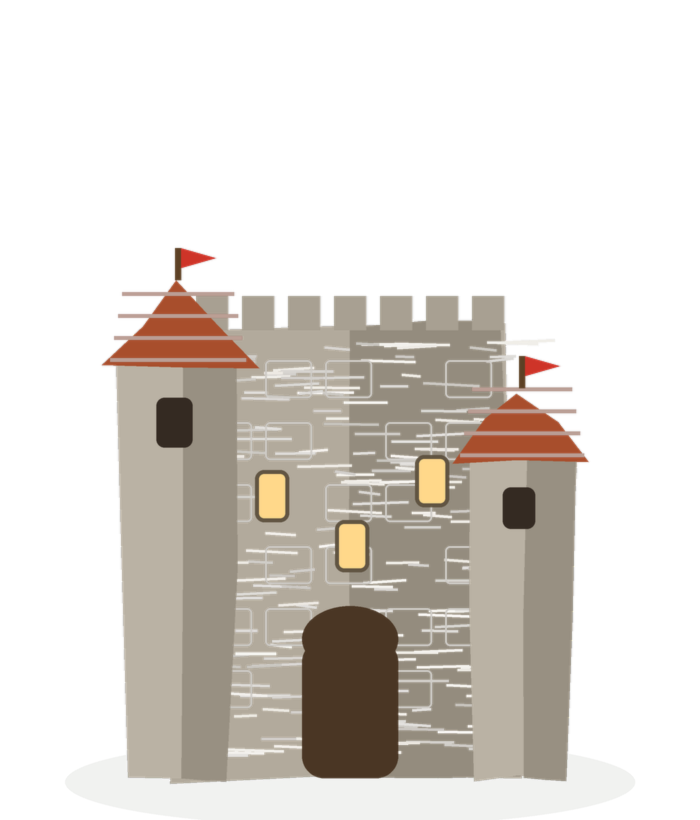
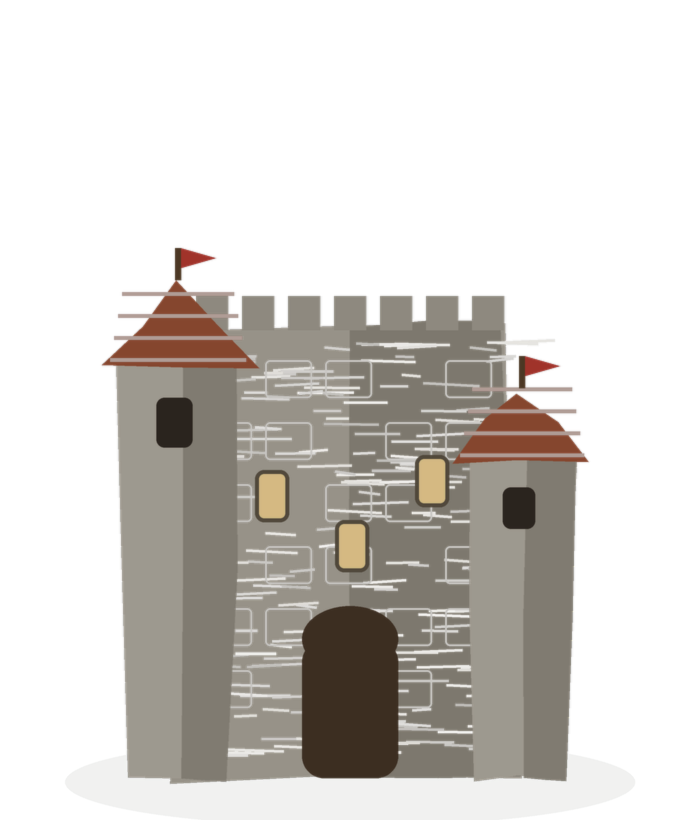
Painted 2.5D prototype P2: hero house (dense brush/value modelling), painted mountain backdrop, palette calibrated down in textures - gate FAIL 5/10 (artwork density/composition, pipeline proven)

Changed region(s): [[0.15, 0.3049, 0.72, 0.9756], [0.6, 0.4573, 0.84, 0.9756], [0.75, 0.4268, 0.81, 0.4573]]

diff --git a/art_test/painted25d/paint_assets.py b/art_test/painted25d/paint_assets.py
@@ -1,7 +1,7 @@
 """Paint prototype assets for the 2.5D test. Supersampled x3, soft edges.
 Run: python3 art_test/painted25d/paint_assets.py  (writes assets/*.png)"""
 import math, random
-from PIL import Image, ImageDraw, ImageFilter
+from PIL import Image, ImageDraw, ImageFilter, ImageEnhance
 random.seed(25)
 OUT = "art_test/painted25d/assets/"
 SS = 3
@@ -9,8 +9,10 @@ SS = 3
 def canvas(w, h):
     return Image.new("RGBA", (w*SS, h*SS), (0, 0, 0, 0))
 
-def finish(img, w, h, name):
+def finish(img, w, h, name, bright=1.0, sat=1.0):
     img = img.resize((w, h), Image.LANCZOS)
+    if bright != 1.0: img = ImageEnhance.Brightness(img).enhance(bright)
+    if sat != 1.0: img = ImageEnhance.Color(img).enhance(sat)
     img = img.filter(ImageFilter.GaussianBlur(0.5))
     img.save(OUT + name)
     print("painted", name, img.size)
@@ -36,48 +38,95 @@ def strokes(d, box, n, cols, lw, horiz=True, seed=1):
         if horiz: d.line([(x*SS, y*SS), ((x+L)*SS, (y+rnd.uniform(-3, 3))*SS)], fill=c, width=int(lw*SS))
         else: d.line([(x*SS, y*SS), ((x+rnd.uniform(-3, 3))*SS, (y+L)*SS)], fill=c, width=int(lw*SS))
 
-# ---------------- HOUSE (600x560, ground contact y~520) ----------------
+# ---------------- HERO HOUSE P2 (600x560, contact y~520): dense brush + value modelling ----------------
 img = canvas(600, 560); d = ImageDraw.Draw(img, 'RGBA')
-shadow(d, 300, 522, 190, 26)
-# walls: leaning plaster body + stone skirt
-d.polygon(wob([(150,300),(455,290),(470,505),(135,510)], 5, 1), fill=(234, 216, 176, 255))
-d.polygon(wob([(135,455),(470,450),(472,512),(133,514)], 4, 2), fill=(168, 160, 146, 255))
-for i in range(9):  # skirt stones
-    x = 150 + i*36
-    d.rounded_rectangle([(x*SS, 462*SS), ((x+30)*SS, 505*SS)], 6*SS, fill=(150, 142, 128, 255), outline=(110, 102, 90, 160), width=2*SS)
-strokes(d, (160, 310, 450, 440), 90, [(255, 248, 224), (206, 182, 142)], 3)
-# timber frame
-for x in [158, 300, 442]:
-    d.line([(x*SS, 296*SS), ((x-6)*SS, 506*SS)], fill=(88, 60, 34, 255), width=13*SS)
-d.line([(150*SS, 302*SS), (462*SS, 294*SS)], fill=(88, 60, 34, 255), width=12*SS)
-d.line([(158*SS, 410*SS), (458*SS, 404*SS)], fill=(88, 60, 34, 255), width=9*SS)
-d.line([(168*SS, 310*SS), (290*SS, 402*SS)], fill=(88, 60, 34, 255), width=8*SS)
-# roof: sagging steep slopes (solid, strokes clipped to roof mask)
-d.polygon(wob([(105,305),(300,118),(505,300),(505,318),(105,322)], 5, 3), fill=(172, 84, 48, 255))
-d.polygon(wob([(300,118),(505,300),(505,318),(300,238)], 4, 4), fill=(146, 68, 40, 255))
-mask = Image.new("L", img.size, 0); md = ImageDraw.Draw(mask)
-md.polygon(wob([(105,305),(300,118),(505,300),(505,318),(105,322)], 5, 3), fill=255)
-sl = Image.new("RGBA", img.size, (0,0,0,0)); sd = ImageDraw.Draw(sl)
-strokes(sd, (110, 125, 490, 310), 170, [(232, 148, 96), (128, 62, 36), (240, 178, 120)], 3)
-for r in range(7):
-    y = 292 - r*24; inset = r*20
-    sd.line([((118+inset)*SS, y*SS), (300*SS, (y-40)*SS), ((492-inset)*SS, y*SS)], fill=(110, 52, 30, 130), width=5*SS)
-img.paste(Image.alpha_composite(img, sl), (0, 0), mask); d = ImageDraw.Draw(img, 'RGBA')
-d.line([(112*SS, 308*SS), (300*SS, 126*SS), (498*SS, 302*SS)], fill=(236, 168, 112, 200), width=7*SS)
-d.rectangle([105*SS, 302*SS, 505*SS, 316*SS], fill=(70, 40, 24, 90))
-# chimney + smoke
-d.polygon(wob([(392,92),(432,88),(436,168),(396,172)], 3, 5), fill=(158, 150, 136, 255))
-d.rectangle([388*SS, 82*SS, 440*SS, 96*SS], fill=(120, 112, 98, 255))
-for i, (sx, sy, sr) in enumerate([(420, 62, 17), (438, 40, 23), (462, 14, 29)]):
-    d.ellipse([(sx-sr)*SS, (sy-sr)*SS, (sx+sr)*SS, (sy+sr)*SS], fill=(240, 240, 238, 58))
-# door + windows
-d.rounded_rectangle([272*SS, 408*SS, 330*SS, 508*SS], 14*SS, fill=(104, 70, 40, 255))
-d.ellipse([272*SS, 388*SS, 330*SS, 432*SS], fill=(104, 70, 40, 255))
+shadow(d, 300, 522, 195, 26)
+wallp = wob([(150,300),(455,290),(470,505),(135,510)], 5, 1)
+roofp = wob([(100,308),(298,106),(510,298),(510,318),(100,324)], 5, 3)
+wmask = Image.new("L", img.size, 0); ImageDraw.Draw(wmask).polygon(wallp, fill=255)
+rmask = Image.new("L", img.size, 0); ImageDraw.Draw(rmask).polygon(roofp, fill=255)
+# walls: plaster base + lit left / shadow right value modelling
+d.polygon(wallp, fill=(206, 186, 148, 255))
+lay = Image.new("RGBA", img.size, (0,0,0,0)); ld = ImageDraw.Draw(lay)
+ld.polygon(wob([(150,300),(300,296),(305,508),(135,510)], 4, 31), fill=(255, 240, 205, 66))   # lit side
+ld.polygon(wob([(368,294),(455,290),(470,505),(372,506)], 4, 32), fill=(104, 94, 82, 92))     # shadow side
+ld.rectangle([130*SS, 292*SS, 475*SS, 322*SS], fill=(80, 58, 40, 88))                        # under-eave AO
+ld.rectangle([130*SS, 470*SS, 475*SS, 512*SS], fill=(86, 66, 46, 70))                        # ground AO
+img.paste(Image.alpha_composite(img, lay), (0, 0), wmask); d = ImageDraw.Draw(img, 'RGBA')
+lay = Image.new("RGBA", img.size, (0,0,0,0)); ld = ImageDraw.Draw(lay)
+strokes(ld, (145, 305, 465, 500), 300, [(238, 222, 182), (188, 164, 122), (168, 150, 118), (226, 204, 158)], 3, seed=41)
+for cx, cy in [(210, 360), (390, 330), (250, 450)]:  # plaster patches + cracks
+    ld.ellipse([(cx-46)*SS, (cy-20)*SS, (cx+46)*SS, (cy+20)*SS], fill=(196, 172, 128, 60))
+    ld.line([(cx*SS, cy*SS), ((cx+16)*SS, (cy+34)*SS), ((cx+8)*SS, (cy+58)*SS)], fill=(110, 92, 70, 110), width=2*SS)
+img.paste(Image.alpha_composite(img, lay), (0, 0), wmask); d = ImageDraw.Draw(img, 'RGBA')
+# stone foundation: individual shaded stones, 2 offset rows
+rndf = random.Random(7)
+for row, fy in enumerate([458, 484]):
+    for i in range(9):
+        x = 142 + i*37 + (18 if row else 0); wdt = rndf.randint(28, 36)
+        c = rndf.choice([(148, 138, 122), (132, 122, 106), (160, 148, 130), (120, 112, 98)])
+        d.rounded_rectangle([(x*SS, fy*SS), ((x+wdt)*SS, (fy+24)*SS)], 7*SS, fill=c+(255,), outline=(88, 80, 68, 170), width=2*SS)
+        d.line([((x+4)*SS, (fy+5)*SS), ((x+wdt-6)*SS, (fy+5)*SS)], fill=(214, 204, 184, 130), width=2*SS)
+# timber frame with grain
+for x0b, y0b, x1b, y1b, wd in [(158,296,152,506,13),(300,294,300,506,13),(442,292,450,504,13),(150,302,462,294,12),(158,410,458,404,9),(168,310,290,402,8)]:
+    d.line([(x0b*SS, y0b*SS), (x1b*SS, y1b*SS)], fill=(84, 58, 32, 255), width=wd*SS)
+    d.line([((x0b+2)*SS, y0b*SS), ((x1b+2)*SS, y1b*SS)], fill=(140, 104, 62, 130), width=2*SS)
+# roof: muted terracotta base, shadow slope, dense shingles (rows + scallops + strokes), ridge
+d.polygon(roofp, fill=(148, 78, 46, 255))
+lay = Image.new("RGBA", img.size, (0,0,0,0)); ld = ImageDraw.Draw(lay)
+ld.polygon(wob([(298,106),(510,298),(510,318),(298,240)], 4, 33), fill=(70, 36, 26, 96))  # shadow slope
+ld.polygon(wob([(100,308),(298,106),(298,240),(100,324)], 4, 34), fill=(255, 186, 130, 46)) # lit slope
+strokes(ld, (105, 112, 505, 315), 420, [(196, 118, 74), (122, 60, 36), (214, 146, 96), (104, 52, 32)], 3, seed=55)
+rndr = random.Random(9)
+for r in range(9):
+    tt = r/8.0; y = 302 - tt*172; hw = 200 - tt*182; cx = 302 - tt*3
+    ld.line([((cx-hw)*SS, y*SS), ((cx+hw)*SS, y*SS)], fill=(92, 46, 28, 150), width=4*SS)
+    x = cx-hw
+    while x < cx+hw-14:
+        c = rndr.choice([(176, 102, 62), (156, 84, 50), (190, 116, 72), (138, 72, 44)])
+        ld.arc([(x*SS, (y-7)*SS), ((x+24)*SS, (y+11)*SS)], 0, 180, fill=c+(210,), width=4*SS)
+        x += 24
+for i in range(9):  # ridge tiles
+    x = 268 + i*8
+    ld.rounded_rectangle([(x*SS, (104 - abs(i-4))*SS), ((x+9)*SS, (118 - abs(i-4))*SS)], 3*SS, fill=(186, 110, 68, 255), outline=(100, 52, 30, 160), width=1*SS)
+img.paste(Image.alpha_composite(img, lay), (0, 0), rmask); d = ImageDraw.Draw(img, 'RGBA')
+d.line([(104*SS, 310*SS), (298*SS, 112*SS), (506*SS, 300*SS)], fill=(228, 158, 104, 170), width=5*SS)
+d.rectangle([100*SS, 302*SS, 510*SS, 318*SS], fill=(64, 38, 22, 110))
+d.line([(148*SS, 302*SS), (136*SS, 508*SS)], fill=(70, 48, 28, 130), width=3*SS)  # painterly edge
+d.line([(456*SS, 294*SS), (468*SS, 504*SS)], fill=(70, 48, 28, 130), width=3*SS)
+# chimney: shaded stone + soft smoke
+d.polygon(wob([(392,92),(432,88),(436,168),(396,172)], 3, 5), fill=(146, 136, 120, 255))
+d.polygon(wob([(414,90),(432,88),(436,168),(416,170)], 3, 35), fill=(110, 102, 90, 255))
+strokes(d, (394, 98, 430, 162), 30, [(196, 186, 168), (96, 88, 76)], 2, seed=61)
+d.rectangle([388*SS, 82*SS, 440*SS, 96*SS], fill=(104, 96, 84, 255))
+for sx, sy, sr, aa in [(420, 62, 15, 30), (436, 42, 19, 24), (458, 18, 24, 18)]:
+    d.ellipse([(sx-sr)*SS, (sy-sr)*SS, (sx+sr)*SS, (sy+sr)*SS], fill=(238, 238, 234, aa))
+# door: arched, planked, stone surround; windows: warm glow, shutters, flower boxes
+d.rounded_rectangle([268*SS, 404*SS, 334*SS, 510*SS], 15*SS, outline=(150, 140, 124, 255), width=6*SS)
+d.rounded_rectangle([272*SS, 408*SS, 330*SS, 508*SS], 14*SS, fill=(96, 64, 36, 255))
+d.ellipse([272*SS, 388*SS, 330*SS, 432*SS], fill=(96, 64, 36, 255))
+for px in [286, 300, 314]: d.line([(px*SS, 402*SS), (px*SS, 504*SS)], fill=(58, 38, 20, 160), width=2*SS)
+d.ellipse([318*SS, 458*SS, 326*SS, 466*SS], fill=(216, 178, 92, 255))
 for wx in [185, 372]:
-    d.rounded_rectangle([(wx*SS, 348*SS), ((wx+52)*SS, 402*SS)], 5*SS, fill=(255, 214, 130, 255), outline=(88, 60, 34, 255), width=5*SS)
-    d.rectangle([(wx+8)*SS, 398*SS, (wx+44)*SS, 410*SS], fill=(122, 84, 44, 255))
-    for fx in range(3):
-        d.ellipse([((wx+8+fx*14)*SS, 390*SS), ((wx+18+fx*14)*SS, 402*SS)], fill=(224, 84, 62, 255))
+    d.rectangle([(wx-14)*SS, 344*SS, (wx-3)*SS, 406*SS], fill=(96, 104, 66, 255))   # shutters
+    d.rectangle([((wx+55)*SS), 344*SS, ((wx+66)*SS, 406*SS)], fill=(84, 92, 58, 255))
+    d.rounded_rectangle([(wx*SS, 348*SS), ((wx+52)*SS, 402*SS)], 5*SS, fill=(240, 196, 112, 255), outline=(80, 54, 30, 255), width=5*SS)
+    d.rectangle([((wx+24)*SS), 348*SS, ((wx+28)*SS, 402*SS)], fill=(80, 54, 30, 255))
+    d.rectangle([(wx*SS), 372*SS, ((wx+52)*SS, 376*SS)], fill=(80, 54, 30, 255))
+    d.rectangle([((wx+6)*SS), 398*SS, ((wx+46)*SS, 412*SS)], fill=(110, 76, 40, 255))
+    rndw = random.Random(wx)
+    for i in range(12):
+        gx, gy2 = wx+8+rndw.uniform(0, 36), 394+rndw.uniform(0, 8)
+        d.ellipse([(gx*SS, gy2*SS), ((gx+7)*SS, (gy2+6)*SS)], fill=(86, 116, 54, 255))
+        if i % 3 == 0: d.ellipse([((gx+2)*SS, (gy2-4)*SS), ((gx+7)*SS, (gy2+1)*SS)], fill=(196, 74, 54, 255))
+# base grass tufts + vine on lit wall
+rndg = random.Random(3)
+for i in range(46):
+    gx = rndg.uniform(140, 465); gl = rndg.uniform(8, 20)
+    d.line([(gx*SS, 512*SS), ((gx+rndg.uniform(-3, 3))*SS, (512-gl)*SS)], fill=rndg.choice([(86, 122, 54), (64, 104, 44), (110, 142, 66)])+(200,), width=2*SS)
+for i in range(26):
+    vx, vy = 168 + i*3.2, 470 - i*6.4
+    d.ellipse([((vx+rndg.uniform(-7, 7))*SS, (vy+rndg.uniform(-5, 5))*SS), ((vx+9)*SS, (vy+7)*SS)], fill=(92, 124, 58, 190))
 finish(img, 600, 560, "house.png")
 
 # ---------------- CASTLE SECTION (700x820, contact y~780) ----------------
@@ -107,7 +156,7 @@ d.rounded_rectangle([302*SS, 640*SS, 398*SS, 778*SS], 22*SS, fill=(74, 54, 36, 2
 d.ellipse([302*SS, 606*SS, 398*SS, 672*SS], fill=(74, 54, 36, 255))
 for wx, wy in [(255, 470), (415, 455), (335, 520)]:
     d.rounded_rectangle([(wx*SS, wy*SS), ((wx+34)*SS, (wy+52)*SS)], 9*SS, fill=(255, 216, 138, 255), outline=(96, 84, 66, 255), width=4*SS)
-finish(img, 700, 820, "castle.png")
+finish(img, 700, 820, "castle.png", bright=0.86, sat=0.82)
 
 # ---------------- PINE (360x680, contact y~650) ----------------
 img = canvas(360, 680); d = ImageDraw.Draw(img, 'RGBA')
@@ -128,7 +177,7 @@ for ti, (ty, halfw) in enumerate(tiers):
 sl2 = Image.new("RGBA", img.size, (0,0,0,0)); sd2 = ImageDraw.Draw(sl2)
 strokes(sd2, (15, 40, 345, 560), 260, [(150, 205, 100), (96, 158, 64), (190, 225, 140)], 3, seed=77)
 img.paste(Image.alpha_composite(img, sl2), (0, 0), pmask); d = ImageDraw.Draw(img, 'RGBA')
-finish(img, 360, 680, "pine.png")
+finish(img, 360, 680, "pine.png", bright=0.82, sat=0.80)
 
 # ---------------- BOULDER (360x260) ----------------
 img = canvas(360, 260); d = ImageDraw.Draw(img, 'RGBA')
@@ -136,7 +185,51 @@ shadow(d, 180, 232, 140, 18)
 d.polygon(wob([(60,210),(80,90),(170,38),(285,70),(315,205),(200,228),(95,226)], 7, 41), fill=(146, 134, 116, 255))
 d.polygon(wob([(170,38),(285,70),(315,205),(205,226),(185,120)], 6, 42), fill=(116, 104, 90, 255))
 strokes(d, (75, 60, 300, 210), 70, [(196, 184, 162), (96, 86, 72)], 3)
-finish(img, 360, 260, "boulder.png")
+finish(img, 360, 260, "boulder.png", bright=0.88, sat=0.85)
+
+# ---------------- MOUNTAIN BACKDROP (1500x950, contact y~920): layered painted landform ----------------
+img = canvas(1500, 950); d = ImageDraw.Draw(img, 'RGBA')
+shadow(d, 750, 922, 640, 26)
+sil = wob([(70,920),(210,640),(350,390),(505,190),(640,330),(800,110),(965,300),(1110,190),(1265,430),(1405,620),(1460,920)], 14, 71)
+mmask = Image.new("L", img.size, 0); ImageDraw.Draw(mmask).polygon(sil, fill=255)
+d.polygon(sil, fill=(134, 120, 104, 255))  # muted warm rock base
+lay = Image.new("RGBA", img.size, (0,0,0,0)); ld = ImageDraw.Draw(lay)
+# facet value modelling: lit planes left / shadow gullies right of each peak
+for poly, c in [([(505,190),(640,330),(560,560),(430,420)], (188, 172, 148, 120)),
+                ([(800,110),(965,300),(880,600),(730,420)], (196, 182, 158, 110)),
+                ([(1110,190),(1265,430),(1150,640),(1020,430)], (186, 170, 146, 110)),
+                ([(640,330),(800,110),(880,600),(700,700)], (88, 80, 76, 130)),
+                ([(965,300),(1110,190),(1150,640),(950,680)], (92, 84, 80, 125)),
+                ([(350,390),(505,190),(560,560),(380,640)], (176, 160, 136, 100)),
+                ([(210,640),(350,390),(430,700),(280,880)], (104, 94, 84, 110)),
+                ([(1265,430),(1405,620),(1460,920),(1200,760)], (96, 88, 80, 120))]:
+    ld.polygon(wob(poly, 10, 72+poly[0][0]), fill=c)
+strokes(ld, (80, 120, 1450, 900), 900, [(178, 164, 142), (104, 94, 84), (150, 134, 112), (84, 76, 70), (206, 192, 168)], 3, seed=73)
+rndm = random.Random(74)
+for i in range(34):  # strata bands
+    y = rndm.uniform(240, 860); x0 = rndm.uniform(120, 700)
+    ld.line([(x0*SS, y*SS), ((x0+rndm.uniform(180, 420))*SS, (y+rndm.uniform(28, 66))*SS)], fill=(96, 86, 76, 90), width=int(rndm.uniform(3, 7))*SS)
+img.paste(Image.alpha_composite(img, lay), (0, 0), mmask); d = ImageDraw.Draw(img, 'RGBA')
+# snow: soft irregular patches under peaks (blurred layer, clipped)
+snow = Image.new("RGBA", img.size, (0,0,0,0)); snd = ImageDraw.Draw(snow)
+for px, py, sw in [(505, 190, 120), (800, 110, 150), (1110, 190, 120), (640, 330, 70), (965, 300, 76)]:
+    snd.polygon(wob([(px-sw, py+64),(px-sw*0.35, py+6),(px, py+38),(px+sw*0.4, py+2),(px+sw, py+58),(px+sw*0.3, py+96),(px-sw*0.3, py+92)], 9, px), fill=(236, 233, 224, 235))
+snow = snow.filter(ImageFilter.GaussianBlur(3*SS))
+img.paste(Image.alpha_composite(img, snow), (0, 0), mmask); d = ImageDraw.Draw(img, 'RGBA')
+# scree fans + foothill green + pine specks at base
+lay = Image.new("RGBA", img.size, (0,0,0,0)); ld = ImageDraw.Draw(lay)
+for bx in [300, 620, 940, 1240]:
+    ld.polygon(wob([(bx-190, 922),(bx, 690),(bx+200, 922)], 16, bx), fill=(172, 152, 124, 64))
+    for i in range(60):
+        sx, sy = bx+rndm.uniform(-165, 165), rndm.uniform(760, 912)
+        ld.ellipse([(sx*SS, sy*SS), ((sx+rndm.uniform(4, 12))*SS, (sy+4)*SS)], fill=(120, 106, 88, 120))
+ld.polygon(wob([(60,950),(60,852),(420,806),(820,838),(1180,800),(1470,856),(1470,950)], 10, 79), fill=(92, 122, 66, 235))
+strokes(ld, (70, 800, 1450, 940), 240, [(112, 142, 78), (72, 104, 50), (140, 160, 92)], 3, seed=80)
+for i in range(90):
+    tx, ty = rndm.uniform(90, 1420), rndm.uniform(806, 892); th2 = rndm.uniform(12, 30)
+    ld.polygon([((tx-7)*SS, ty*SS), (tx*SS, (ty-th2)*SS), ((tx+7)*SS, ty*SS)], fill=(44, 72, 36, 220))
+img.paste(Image.alpha_composite(img, lay), (0, 0), mmask); d = ImageDraw.Draw(img, 'RGBA')
+finish(img, 1500, 950, "mountain.png", bright=0.94, sat=0.88)
 
 # ---------------- TERRAIN (2048x1200, top-down iso ground painting) ----------------
 img = Image.new("RGB", (2048, 1200), (96, 158, 62)); d = ImageDraw.Draw(img, 'RGBA')
@@ -172,4 +265,6 @@ for (x, y) in [(300, 760), (1020, 860), (660, 180)]:
         fx, fy = x + random.uniform(-95, 95), y + random.uniform(-45, 45)
         d.ellipse([fx-7, fy-5, fx+7, fy+5], fill=random.choice([(238, 96, 74), (255, 214, 84), (255, 168, 190)]) + (190,))
 img = img.filter(ImageFilter.GaussianBlur(1.2))
+img = ImageEnhance.Brightness(img).enhance(0.76)
+img = ImageEnhance.Color(img).enhance(0.68)
 img.save(OUT + "terrain.png"); print("painted terrain.png", img.size)

diff --git a/art_test/painted25d/SCORECARD_PAINTED25D_P2.md b/art_test/painted25d/SCORECARD_PAINTED25D_P2.md
@@ -1,0 +1,47 @@
+# SCORECARD — Painted 2.5D Prototype P2 (bounded, internal only)
+
+Gate: >=7/10 style match before any full asset conversion.
+**Verdict: FAIL — ~5/10 overall (P1 was ~4/10). Improved, still no full conversion.
+R68 low-poly scene untouched (baseline panel). No global shader tweaks; post OFF;
+same fixed iso camera/scale and same KayKit carrier integration as P1.**
+
+Changes vs P1: ONE hero house repaint (all house instances use it), ONE painted mountain
+backdrop sprite behind/right of settlement, palette calibrated DOWN in texture values
+(terrain brightness x0.76 / saturation x0.68 after painting, castle x0.86, pine x0.82;
+hero house and mountain painted muted directly).
+
+## Per-point honest verdict
+- **Hero house — 6/10.** Markedly denser: scalloped shingle rows + 420 clipped roof strokes,
+  lit/shadow wall value modelling, plaster patches/cracks, individual shaded foundation
+  stones, planked door, shutters/flower boxes, vine + base grass. At close size it reads
+  painted, not clip-art. Held back: still clean/geometric at full frame, and every house
+  is the same hero clone (flips/tints only) — target has unique buildings.
+- **Mountain / landform — 4.5/10.** New: layered facet value modelling, snow caps, scree,
+  foothill pines; sits behind/right in the right third like the target and finally gives
+  the frame a landform. Held back: facets are still large flat polygons, snow is blobby,
+  and its foothill strip reads as a pasted band on the flat field.
+- **Palette — 6/10.** Neon is gone; field/houses/mountain now land muted and close to the
+  target's value range. Terrain path is now slightly too faint, field a bit uniform.
+- **Sitting-in-landscape — 6/10.** Unchanged strength: contact shadows/anchors hold,
+  mountain base sits on the slope without floating.
+- **Carrier / overlap — 7/10 (technical PASS, unchanged).** 3D carrier walks between hero
+  houses; foreground pine still occludes him correctly (close render).
+- **First-glance kind — 4.5/10.** Layout now echoes target (castle centre, village,
+  snow mountain right), but first glance still says "flat painted-storybook diorama on
+  an empty field", not the target's dense, textured painted landscape. Castle and pines
+  are still P1-flat and are now the weakest assets in frame; terrain has no mid-scale
+  texture or settlement density (fields, fences, more varied buildings).
+
+## Diagnosis
+Cause remains **artwork density + composition**, not camera/integration. P2 proves the
+two approved levers work (hero-density painting +6->house, painted landform backdrop,
+texture-level palette calibration). Remaining gap is per-asset density for castle/pines,
+building variety, and terrain mid-detail — all artwork, all bounded per-asset work.
+Suggested next bounded step (only if approved): hero-density castle section + pine, and
+2-3 house silhouette variants from the hero painting system; retest same gate.
+
+## Perf
+P2 full frame: **42 draw calls, 31,386 primitives** (P1: 41 / 31,384; R68: 288 / 482,213).
+Mountain backdrop = 1 draw call.
+
+Renders: evidence `painted25d/p2_full.png`, `painted25d/p2_close.png` (1280x800).
